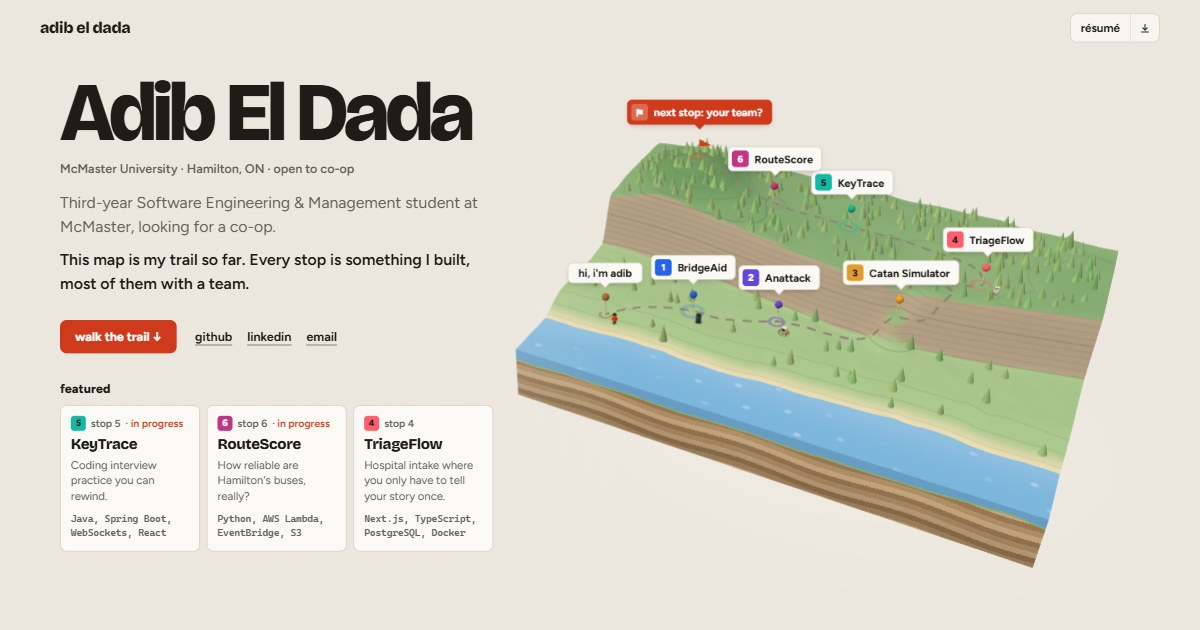
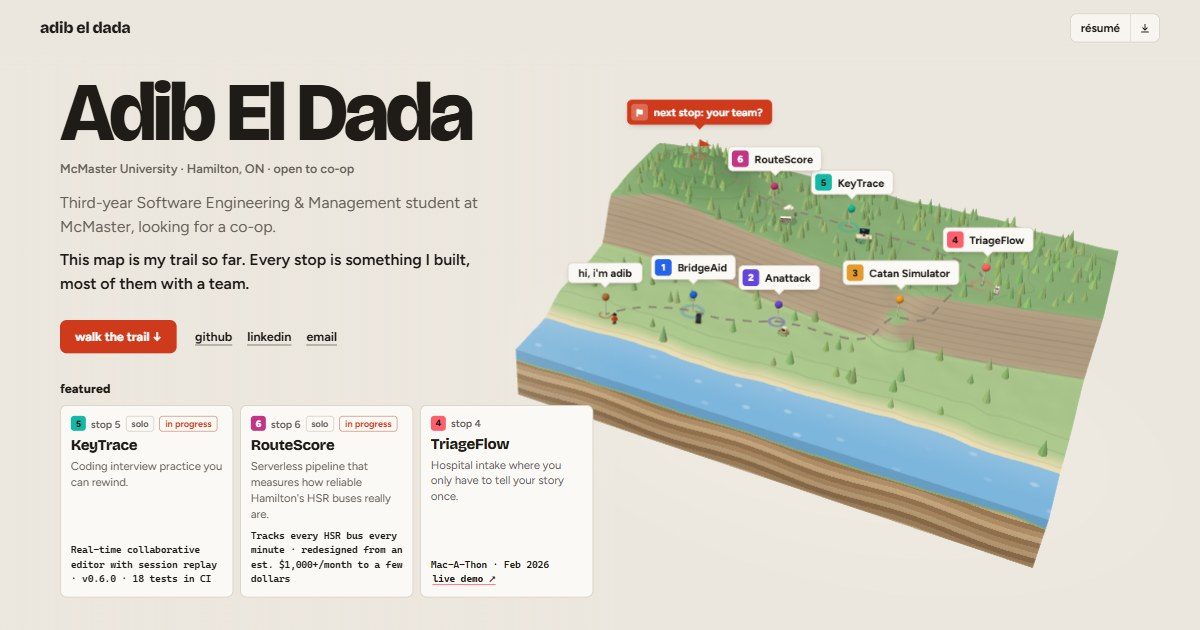
Add map props and a blinking cursor, expand KeyTrace and RouteScore
- KeyTrace and RouteScore cards: fuller descriptions, four bullets each,
  "next up" lines, and the City of Hamilton licence note on RouteScore
- Featured row: tagline plus one proof line, solo/in-progress badges,
  and a live demo link for TriageFlow
- Shorter, more casual trailhead about section
- A blinking text-cursor marker on the trail just past the newest
  project (solid with reduced motion)
- New map props: a replay desk by KeyTrace and a bus stop with a cloud
  by RouteScore
- Retook og.jpg

diff --git a/src/data/projects.ts b/src/data/projects.ts
@@ -19,6 +19,12 @@ export interface Project {
 	status?: string;
 	// optional, for in-progress projects: one line on what already works (keep it to what's really built)
 	working?: string;
+	// optional, for in-progress projects: what's planned next (shown as "next up: ..." under the bullets)
+	next?: string;
+	// optional: one short line of proof for its card in the featured row at the top
+	highlight?: string;
+	// optional: small print at the bottom of the card (like a data licence)
+	note?: string;
 	// the links on the card: the code, and a live version people can try (leave demo out if there isn't one)
 	github: string;
 	demo?: string;
@@ -115,38 +121,58 @@ export const projects: Project[] = [
 		context: 'Personal project',
 		when: 'Sep 2026 – now',
 		status: 'in progress',
-		working: 'Live shared editing in rooms you join by link, a replay of every session, solo, interview and group modes with a host who runs the session, and rooms and recordings saved in PostgreSQL.',
+		highlight: 'Real-time collaborative editor with session replay · v0.6.0 · 18 tests in CI',
+		working:
+			'Real-time shared editing in rooms you join by link, solo, interview and group modes, host-only session ending, and a replay of every session saved in PostgreSQL.',
 		icon: ['#14B8A6', '#5EEAD4'],
 		about:
-			'A web app for practicing coding interviews. You solve a problem in a shared code editor in the browser, alone or with a friend or tutor playing the interviewer. Every edit gets recorded, so afterwards you can replay the session and see where you got stuck, what you rewrote and how long each part took, like athletes reviewing game footage.',
+			'A web app for practicing coding interviews. People edit code together in a shared browser editor in real time, every edit is recorded, and after the session you can replay how the problem was solved, like reviewing game footage. Rooms come in solo, interview and group modes.',
 		mine: [
-			'Built the real-time core: a Spring Boot backend where each session is a room with its own random ID, and a WebSocket handler relays every edit to everyone in that room. The frontend is React + TypeScript around the Monaco editor (the one inside VS Code).',
-			'Every edit is saved as a timestamped snapshot of the code. When the host ends the session (only they can, using a private host token), it turns into a replay you can play, pause and scrub through. Solo, interview and group rooms each have their own player limit.',
-			'Rooms and recordings are saved in PostgreSQL (run with Docker Compose), so sessions survive a server restart. I moved the room logic into its own service and split the backend into packages.',
-			'Tested with JUnit and Mockito, plus integration tests against a real PostgreSQL database that Testcontainers starts up. GitHub Actions runs them all on every push.',
-			'Next up: running code in a sandboxed Docker container, built-in practice problems, accounts, and end-to-end tests with Playwright.',
+			"Built the real-time core: a Spring Boot WebSocket server that relays every edit to everyone in the room, with my own message protocol (JSON with a type field) and custom close codes for a session that ended, a full room and a room that doesn't exist.",
+			'Built the replay: every edit is saved as a timestamped snapshot in PostgreSQL, and the player (play/pause and a draggable timeline) finds the right moment with a binary search over the timestamps.',
+			'Made ending a session host-only and enforced it on the server: the room creator gets a secret host token, and anyone else who tries gets an HTTP 403, not just a hidden button.',
+			'Wrote 18 backend tests (as of Oct 25, 2026) that run in GitHub Actions on every push: unit tests with JUnit and Mockito, and integration tests against a real PostgreSQL started by Testcontainers, including one that simulates a server restart.',
 		],
-		stack: ['Java', 'Spring Boot', 'WebSockets', 'React', 'TypeScript', 'PostgreSQL', 'Docker', 'JUnit', 'Testcontainers', 'GitHub Actions'],
+		next: 'A Docker sandbox for running code and a problem panel, then accounts, interview features, and Playwright end-to-end tests with an AWS deployment.',
+		stack: [
+			'Java 17',
+			'Spring Boot',
+			'WebSockets',
+			'PostgreSQL',
+			'React',
+			'TypeScript',
+			'Monaco Editor',
+			'Docker Compose',
+			'JUnit',
+			'Mockito',
+			'Testcontainers',
+			'GitHub Actions',
+		],
 		github: 'https://github.com/adibeldada/KeyTrace',
 	},
 	{
 		id: 'routescore',
 		map: { x: -2.0, z: -2.05 },
 		name: 'RouteScore',
-		tagline: "How reliable are Hamilton's buses, really?",
+		tagline: "Serverless pipeline that measures how reliable Hamilton's HSR buses really are.",
 		context: 'Personal project',
 		when: 'Sep 2026 – now',
 		status: 'in progress',
-		working: 'A Lambda that saves the live HSR feed to S3 every minute, and a step that turns those snapshots into arrivals labelled early, on time or late. Per-route stats and the dashboard come next.',
+		highlight: 'Tracks every HSR bus every minute · redesigned from an est. $1,000+/month to a few dollars',
+		working:
+			"Collecting the city's live GTFS-Realtime feed every minute since Oct 9, 2026, working out every bus arrival each hour, and keeping on-time totals by route, hour and stop in DynamoDB.",
 		icon: ['#C13584', '#F28CCB'],
 		about:
-			"A tracker for how reliable Hamilton's HSR buses actually are. Every minute it saves the city's live bus data, then works out when each bus really reached each stop and compares that to the schedule. Over time that adds up to a reliability history for every route, stop and hour of the day, so you can see how often your bus runs late at rush hour. Later it'll also catch \"ghost buses\", trips that were scheduled but never showed up.",
+			"Every minute, a Lambda saves the City of Hamilton's live GTFS-Realtime bus feed to S3. Every hour, a second one works out when each bus actually reached each stop, compares it to the schedule, and labels it early, on time or late using the city's own rule (at most 2 minutes early or 5 late). The totals add up in DynamoDB, and a reporting script turns them into a leaderboard of the best and worst routes.",
 		mine: [
-			"Set up the pipeline on AWS in code with CDK (Python): a Lambda that EventBridge runs every minute downloads the city's live GTFS-Realtime feed, decodes it and saves a compressed snapshot to S3.",
-			"Wrote the processing step: from a run of snapshots it finds each bus's final arrival at each stop, works out how early or late it was, labels it with the city's on-time rule (no more than 2 minutes early or 5 late) and saves the results back to S3 as JSON Lines.",
-			'Next up: on-time % by route, stop and hour of day stored in DynamoDB, a public dashboard, ghost-bus detection, and tests with pytest and moto.',
+			'Estimated that the obvious design, writing every prediction to DynamoDB each minute (~20,000 writes a minute), would cost $1,000+ a month, so I redesigned it as an hourly batch over S3. It runs for a few dollars a month.',
+			'Caught a data bug: the feed sends placeholder stops with zero times, and they were being counted as on time, inflating on-time %. I filtered them out, moved to a clean table and wrote a backfill script that recounts every saved hourly file into it.',
+			"Designed a DynamoDB single-table schema for running on-time totals by route, hour and stop. Each hourly run boils ~10,000 arrivals down to ~2,300 rows and adds them with atomic ADD counters, and on-time % is worked out when it's read, since counts add up correctly over time and percentages don't.",
+			'Defined everything in AWS CDK (Python), from both Lambdas and their schedules to least-privilege IAM permissions, and fixed a production failure I found in CloudWatch: "total" is a DynamoDB reserved word.',
 		],
-		stack: ['Python', 'AWS Lambda', 'EventBridge', 'S3', 'AWS CDK', 'GTFS-Realtime'],
+		next: 'Finishing the backfill so the stats cover every hour since Oct 15, then tests (pytest, moto) in GitHub Actions, CloudWatch alarms, feed outage detection, a public dashboard and ghost bus detection.',
+		stack: ['Python', 'AWS Lambda', 'EventBridge', 'S3', 'DynamoDB', 'AWS CDK', 'Docker', 'protobuf', 'boto3'],
+		note: 'Contains information licensed under the Open Government Licence – City of Hamilton. Not affiliated with the City of Hamilton or HSR.',
 		github: 'https://github.com/adibeldada/RouteScore',
 	},
 ];

diff --git a/src/map/props.ts b/src/map/props.ts
@@ -2,7 +2,8 @@
 // they're built from simple shapes with build() from kit.ts, so a new one is mostly a list of
 // boxes and spheres. where each one goes is decided in world.ts
 
-import { build } from './kit';
+import type * as THREE from 'three';
+import { build, type Part } from './kit';
 import type { Thing } from './world';
 
 // a server rack by BridgeAid, the servers behind its live map. one light blinks like it's busy
@@ -70,4 +71,116 @@ export function robot(): Thing {
 	head.position.y = 0.128;
 	object.add(head);
 	return { object, update: (time) => (head.rotation.y = Math.sin(time * 0.7) * 0.6) };
+}
+
+// a desk by KeyTrace with two stools (it's for practicing together). the editor on the screen replays a
+// session: the code types itself in as the playhead moves along the timeline, then it rewinds and
+// plays again
+export function replayDesk(): Thing {
+	const leg = (x: number, z: number): Part => ({ shape: 'box', size: [0.01, 0.064, 0.01], at: [x, 0.032, z], color: '#3a3f4a' });
+	const stool = (x: number): Part[] => [
+		{ shape: 'cylinder', size: [0.005, 0.05], at: [x, 0.025, 0.115], color: '#3a3f4a' },
+		{ shape: 'cylinder', size: [0.024, 0.008], at: [x, 0.052, 0.115], color: '#14B8A6' },
+	];
+	const object = build(
+		[
+			{ shape: 'box', size: [0.26, 0.012, 0.13], at: [0, 0.07, 0], color: '#ddd8cc' },
+			leg(-0.118, -0.054),
+			leg(0.118, -0.054),
+			leg(-0.118, 0.054),
+			leg(0.118, 0.054),
+			{ shape: 'box', size: [0.05, 0.004, 0.03], at: [0, 0.078, -0.03], color: '#2b2f38' },
+			{ shape: 'box', size: [0.012, 0.04, 0.012], at: [0, 0.098, -0.034], color: '#2b2f38' },
+			{ shape: 'box', size: [0.16, 0.1, 0.008], at: [0, 0.16, -0.03], color: '#23262e' },
+			{ shape: 'box', size: [0.1, 0.005, 0.032], at: [0, 0.079, 0.03], color: '#cfcac0' },
+			...stool(-0.05),
+			...stool(0.05),
+			// the editor's dark background, and the replay timeline along the bottom of the screen
+			{ shape: 'box', size: [0.148, 0.088, 0.002], at: [0, 0.16, -0.0255], color: '#151c27', glow: true },
+			{ shape: 'box', size: [0.128, 0.003, 0.002], at: [0, 0.124, -0.024], color: '#3d4a5c', glow: true },
+		],
+		0.15,
+	);
+	// the code, one box per line (left edge, width, indent level, color), revealed line by line
+	const lines: [number, number, string][] = [
+		[0.07, 0, '#5EEAD4'],
+		[0.05, 1, '#e6edf3'],
+		[0.064, 2, '#F28CCB'],
+		[0.04, 2, '#e6edf3'],
+		[0.056, 1, '#5EEAD4'],
+		[0.02, 0, '#e6edf3'],
+	];
+	const code = build(
+		lines.map(([width, indent, color], i) => ({
+			shape: 'box' as const,
+			size: [width, 0.005, 0.002],
+			at: [-0.062 + indent * 0.012 + width / 2, 0.192 - i * 0.011, -0.024] as [number, number, number],
+			color,
+			glow: true,
+		})),
+	);
+	const codeLines = (code.children[0] as THREE.Mesh).geometry;
+	const playhead = build([{ shape: 'box', size: [0.005, 0.011, 0.003], at: [0, 0.124, -0.023], color: '#5EEAD4', glow: true }]);
+	object.add(code, playhead);
+	return {
+		object,
+		update: (time) => {
+			// 5s playing, a moment on the finished code, then a quick rewind. (it starts on the finished
+			// code, so with reduced motion, when the clock stays at 0, the screen isn't empty)
+			const t = (time + 5.5) % 7;
+			const played = t < 5 ? t / 5 : t < 6.2 ? 1 : 1 - (t - 6.2) / 0.8;
+			playhead.position.x = -0.062 + played * 0.124;
+			codeLines.setDrawRange(0, 36 * Math.round(played * lines.length)); // (a box is 36 corners)
+		},
+	};
+}
+
+// a bus stop by RouteScore, with a bus waiting at it and a little cloud overhead. every couple of
+// seconds a bit of data floats up from the bus into the cloud, like the live feed being saved to S3
+export function busStop(): Thing {
+	const wheel = (x: number): Part => ({ shape: 'cylinder', size: [0.014, 0.074], at: [x, 0.016, 0], turn: [Math.PI / 2, 0, 0], color: '#22252b' });
+	const object = build(
+		[
+			// the stop: a pole, its sign, and a little arrivals board
+			{ shape: 'cylinder', size: [0.005, 0.2], at: [0.11, 0.1, 0.02], color: '#8a8f99' },
+			{ shape: 'box', size: [0.05, 0.034, 0.006], at: [0.11, 0.19, 0.02], color: '#C13584' },
+			{ shape: 'box', size: [0.036, 0.008, 0.007], at: [0.11, 0.194, 0.02], color: '#f5f2ea' },
+			{ shape: 'box', size: [0.04, 0.024, 0.005], at: [0.11, 0.152, 0.02], color: '#1c2533' },
+			// the bus
+			{ shape: 'box', size: [0.2, 0.068, 0.07], at: [-0.06, 0.05, 0], color: '#f2f0ea' },
+			{ shape: 'box', size: [0.202, 0.014, 0.072], at: [-0.06, 0.026, 0], color: '#C13584' },
+			{ shape: 'box', size: [0.186, 0.022, 0.072], at: [-0.064, 0.066, 0], color: '#1f2a38' },
+			{ shape: 'box', size: [0.004, 0.034, 0.062], at: [0.04, 0.058, 0], color: '#1f2a38' },
+			wheel(-0.12),
+			wheel(0.0),
+			// lights: the board's two lines, the bus's headlights and its route sign
+			{ shape: 'box', size: [0.026, 0.004, 0.002], at: [0.108, 0.157, 0.023], color: '#3ccf7f', glow: true },
+			{ shape: 'box', size: [0.018, 0.004, 0.002], at: [0.104, 0.148, 0.023], color: '#ffb020', glow: true },
+			{ shape: 'box', size: [0.003, 0.008, 0.012], at: [0.0415, 0.032, 0.022], color: '#ffe8a3', glow: true },
+			{ shape: 'box', size: [0.003, 0.008, 0.012], at: [0.0415, 0.032, -0.022], color: '#ffe8a3', glow: true },
+			{ shape: 'box', size: [0.003, 0.009, 0.034], at: [0.0415, 0.078, 0], color: '#ffb020', glow: true },
+		],
+		0.16,
+	);
+	const cloud = build([
+		{ shape: 'sphere', size: [0.05], at: [0, 0, 0], color: '#ffffff' },
+		{ shape: 'sphere', size: [0.037], at: [-0.056, -0.012, 0.004], color: '#ffffff' },
+		{ shape: 'sphere', size: [0.04], at: [0.054, -0.01, -0.004], color: '#ffffff' },
+		{ shape: 'sphere', size: [0.03], at: [0.022, 0.032, -0.01], color: '#ffffff' },
+	]);
+	const packet = build([{ shape: 'box', size: [0.012, 0.012, 0.012], color: '#F28CCB', glow: true }]);
+	packet.position.set(-0.04, 0, 0.04);
+	object.add(cloud, packet);
+	return {
+		object,
+		update: (time) => {
+			cloud.position.set(-0.03, 0.32 + Math.sin(time * 0.8) * 0.012, 0.06);
+			// rises for 1.4s, then a short pause before the next one (and none at all with reduced motion)
+			const t = ((time + 1.7) % 2) / 1.4;
+			packet.visible = t < 1;
+			packet.position.y = 0.1 + t * 0.18;
+			packet.scale.setScalar(t < 0.8 ? 1 : (1 - t) * 5); // shrinks into the cloud
+			packet.rotation.y = t * 3;
+		},
+	};
 }

diff --git a/src/map/index.ts b/src/map/index.ts
@@ -1,6 +1,6 @@
 // the 3D trail map behind the whole page. it's built from simple parts:
 //   terrain.ts   the ground: hills, the cliff, the water, the cut-away sides
-//   trail.ts     the path and its stops
+//   trail.ts     the path, its stops, and the blinking "you are here" cursor
 //   scenery.ts   trees and city lights
 //   camera.ts    where the camera goes as you scroll
 //   palette.ts   colors for light and dark mode
@@ -10,7 +10,7 @@
 
 import * as THREE from 'three';
 import { makeGround, groundGeometry, makeWater, makeSides, makeShadow, WIDTH, DEPTH } from './terrain';
-import { makeTrail, makePins, STOPS } from './trail';
+import { makeTrail, makePins, makeCursor, STOPS } from './trail';
 import { makeTrees, makeCityLights } from './scenery';
 import { frameShot, blendShots, type Shot } from './camera';
 import { colors, levels, type ColorKey, type LevelKey } from './palette';
@@ -81,6 +81,7 @@ export async function startMap(canvas: HTMLCanvasElement, labels: HTMLElement) {
 	await breather();
 	const trail = makeTrail();
 	const pins = makePins();
+	const cursor = makeCursor(trail);
 	const rand = seeded(7);
 	await breather();
 	// the things from world.ts (tiny me, the server rack...), each stood on the ground
@@ -106,7 +107,7 @@ export async function startMap(canvas: HTMLCanvasElement, labels: HTMLElement) {
 	ground.mesh.renderOrder = -1;
 	water.mesh.renderOrder = 1;
 
-	world.add(ground.mesh, water.mesh, sides.mesh, trail.mesh, trail.walker, trees.mesh, city.mesh);
+	world.add(ground.mesh, water.mesh, sides.mesh, trail.mesh, trail.walker, cursor.group, trees.mesh, city.mesh);
 	things.forEach((thing) => world.add(thing.object));
 	pins.forEach((pin) => world.add(pin.group));
 	scene.add(shadow.mesh); // the shadow stays put while the world bobs above it
@@ -170,6 +171,10 @@ export async function startMap(canvas: HTMLCanvasElement, labels: HTMLElement) {
 		city.mesh.visible = city.material.opacity > 0.001;
 		shadow.mesh.visible = shadowAllowed && shadow.material.opacity > 0.001;
 		pins.forEach((pin) => (pin.material.emissiveIntensity = level('glow') * 0.6));
+		// the cursor glows a little by day, and properly at night
+		cursor.block.material.color.copy(now.cursor);
+		cursor.block.material.emissive.copy(now.cursor);
+		cursor.block.material.emissiveIntensity = 0.55 + level('glow') * 0.5;
 	}
 	applyTheme();
 
@@ -387,6 +392,8 @@ export async function startMap(canvas: HTMLCanvasElement, labels: HTMLElement) {
 			mix !== target ||
 			timestamp < animateUntil; // a label was just hovered, so its pin is growing or shrinking
 		const resting = still || timestamp - lastInput > 120000;
+		// the cursor might be mid-blink: draw it solid once more before resting
+		if (resting && cursor.block.material.opacity < 1) needsDraw = true;
 		if (!needsDraw && !moving && resting) return sleep();
 		if (!needsDraw && timestamp - lastDraw < 1000 / (moving ? 60 : ambientFps) - 3) return;
 
@@ -422,6 +429,11 @@ export async function startMap(canvas: HTMLCanvasElement, labels: HTMLElement) {
 		trail.walker.visible = walked > 0.01;
 		trail.path.getPointAt(THREE.MathUtils.clamp(walked, 0, 1), trail.walker.position);
 		trail.walker.position.y += 0.04;
+		// the cursor blinks about once a second, with a quick fade like an editor's. it stays solid for
+		// reduced motion, and while the map rests
+		const blink = resting ? 1 : THREE.MathUtils.clamp(0.5 + Math.cos(time * Math.PI * 2) * 2.5, 0, 1);
+		cursor.block.material.opacity = blink;
+		cursor.block.visible = blink > 0.01;
 		const active = names[Math.round(t)] ?? 'intro';
 		for (const pin of pins) {
 			const focused = pin.id === active || pin.id === hovered;

diff --git a/src/map/trail.ts b/src/map/trail.ts
@@ -89,6 +89,30 @@ export function makeTrail() {
 	return { mesh, uniforms, path, samples, progressAt, walker };
 }
 
+// "you are here": a text cursor (▌) standing by the trail just past the newest project, like the
+// cursor after the last thing you typed. index.ts makes it blink. it moves along on its own when
+// a project is added
+export function makeCursor(trail: ReturnType<typeof makeTrail>) {
+	const newest = STOPS[STOPS.length - 2]; // the last stop before the summit
+	const at = Math.min(1, (trail.progressAt.get(newest.id) ?? 1) + 0.55 / trail.uniforms.uLength.value);
+	const spot = trail.path.getPointAt(at);
+	// a step off to the far side of the trail, so the walker doesn't go through it on its way up
+	const ahead = trail.path.getTangentAt(at);
+	const side = new THREE.Vector3(-ahead.z, 0, ahead.x).normalize();
+	if (side.z > 0) side.negate();
+	spot.addScaledVector(side, 0.1);
+
+	const group = new THREE.Group();
+	group.position.set(spot.x, heightAt(spot.x, spot.z), spot.z);
+	group.rotation.y = 0.5; // facing the camera, which looks at the stops from the front right
+	// a thin slab, so from above it still reads as ▌ and not as a brick (but not so thin that it
+	// turns into a stick when the summit's camera sees it from the side)
+	const block = new THREE.Mesh(new THREE.BoxGeometry(0.1, 0.32, 0.045), new THREE.MeshLambertMaterial({ transparent: true }));
+	block.position.y = 0.15; // (a little sunk into the ground, so it stands on a slope too)
+	group.add(block);
+	return { group, block };
+}
+
 export interface Pin {
 	id: string;
 	group: THREE.Group;

diff --git a/src/map/world.ts b/src/map/world.ts
@@ -9,7 +9,7 @@
 
 import type * as THREE from 'three';
 import { me } from './me';
-import { serverRack, terminal, robot } from './props';
+import { serverRack, terminal, robot, replayDesk, busStop } from './props';
 
 export interface Thing {
 	object: THREE.Object3D;
@@ -30,4 +30,6 @@ export const WORLD: Placed[] = [
 	{ make: serverRack, x: -2.42, z: 1.55, turn: 0.35 }, // by BridgeAid, the servers behind its live map
 	{ make: terminal, x: -0.47, z: 1.08, turn: -0.2 }, // by Anattack, a terminal app
 	{ make: robot, x: 3.75, z: -0.72, turn: -0.4, size: 1.3 }, // by TriageFlow, the AI helper
+	{ make: replayDesk, x: 0.5, z: -1.46, turn: 0.3, size: 1.4 }, // by KeyTrace, its editor replaying a session
+	{ make: busStop, x: -1.36, z: -1.42, turn: 0.35, size: 1.3 }, // by RouteScore, a bus sending its data up to the cloud
 ];

diff --git a/src/map/palette.ts b/src/map/palette.ts
@@ -18,6 +18,7 @@ export const colors = {
 		waterShine: '#e6f4ff',
 		trail: '#e8492a',
 		trailFaint: '#8d8272',
+		cursor: '#d03a1c', // the blinking "you are here" cursor: the site's accent (--accent in global.css)
 		tree: '#ffffff', // multiplies each tree's own green
 		sky: '#fff5e6', // light from above
 		ground: '#b6a687', // light bouncing up from below
@@ -39,6 +40,7 @@ export const colors = {
 		waterShine: '#5d86cc',
 		trail: '#ff7a57',
 		trailFaint: '#4b5670',
+		cursor: '#ff6f4f',
 		tree: '#7a8fa6',
 		sky: '#8ea6d8',
 		ground: '#161b28',

diff --git a/README.md b/README.md
@@ -9,6 +9,7 @@ Built with Astro, TypeScript, Three.js and plain CSS, hosted on Cloudflare Worke
 - **The page is normal HTML.** `src/pages/index.astro` has one `<section>` per step: the intro (with a featured row of three projects), the trailhead (about me), one per project, the summit, and contact. Each has a `data-shot` saying which stop it belongs to.
 - **The map is fixed behind the page.** `src/map/` builds the 3D scene with Three.js. The ground comes from one height function (`heightAt` in `terrain.ts`), and everything else sits on top of it: the trail, the pins, the trees.
 - **Scrolling drives the camera.** `src/scripts/trail-progress.ts` turns the scroll position into one number (0 = intro, 1 = first stop, 1.5 = halfway to the second...). Every frame, the map reads that number, blends between the two closest camera "shots" (`camera.ts`), and fills in the trail up to where you are.
+- **The blinking cursor** standing on the trail just past the newest project is "you are here", like the cursor after the last thing you typed. It moves along on its own when you add a project (`makeCursor` in `trail.ts`).
 - **Clicking a stop** on the map (or on the bar at the bottom) is just a link to that section, so the browser scrolls there and the camera follows.
 - **Dark mode** swaps the page's CSS variables, and the map fades between its day and night colors (`palette.ts`): contour lines start glowing and the city lights come on.
 - **The visitor counter** is the only server code: `src/pages/api/views.ts` runs on a Cloudflare Worker and keeps the count in a D1 database.
@@ -58,7 +59,7 @@ src/
   map/                   the 3D map
     index.ts             puts the scene together, draws a frame whenever something moves
     world.ts             the little things on the map (tiny me, the server rack...) and where they go
-    props.ts             the software things: server rack, terminal, robot
+    props.ts             the software things: server rack, terminal, robot, replay desk, bus stop
     me.ts                tiny me
     kit.ts               build(): makes objects out of simple shapes
     terrain.ts           the ground: hills, the cliff, water, the cut-away sides (and the map's size)
@@ -107,11 +108,14 @@ Everything about a project lives in **`src/data/projects.ts`**. Add an object to
 	award: '2nd place',               // optional
 	status: 'in progress',            // optional: scribbled next to the name. delete it once it's done
 	working: 'What already works.',  // optional, for in-progress projects: shown as "working now: ..." on the card
+	next: 'What comes next.',         // optional: shown as "next up: ..." under the bullets
+	highlight: 'One short line of proof.', // optional: the proof line on its featured card
+	note: 'Small print.',             // optional: tiny text at the bottom of the card (like a data licence)
 	map: { x: -3.1, z: -2.2 },        // where its stop goes on the map (see below)
 },
 ```
 
-- **Featured:** the three cards under the intro are the `featured` list near the bottom of `projects.ts` (project ids, in the order shown). Each card uses the project's tagline and the first four items of its `stack`.
+- **Featured:** the three cards under the intro are the `featured` list near the bottom of `projects.ts` (project ids, in the order shown). Each card shows the project's tagline, its `highlight` line (or where and when it was built), "solo" / "in progress" badges, and a "live demo" link if it has a `demo`.
 - **Order:** the order of the list is the order of the stops, on the trail and on the page. It runs oldest to newest (the trail climbs as the projects get newer, ending at the summit), so a new project usually goes at the end of the list.
 - **Where it goes on the map:** run `npm run dev`, open `localhost:4321/?debug`, click the land where you want the stop, and paste what it copies (`map: { x: ..., z: ... }`). The trail curves to it on its own. Put each new stop further along the trail than the one before it. Right now there's room on the mountain between RouteScore and the summit, around `x` -2.9 to -3.3 and `z` -2.15 to -2.3. After that the summit needs to move further along: it's `SUMMIT` in `src/map/terrain.ts`.
 - **If the trail cuts a strange corner** on the way to the new stop, give it bend points to pass through first: `map: { x: -3.1, z: -2.2, via: [[-2.6, -2.1]] }` (the other projects in the file have examples).
